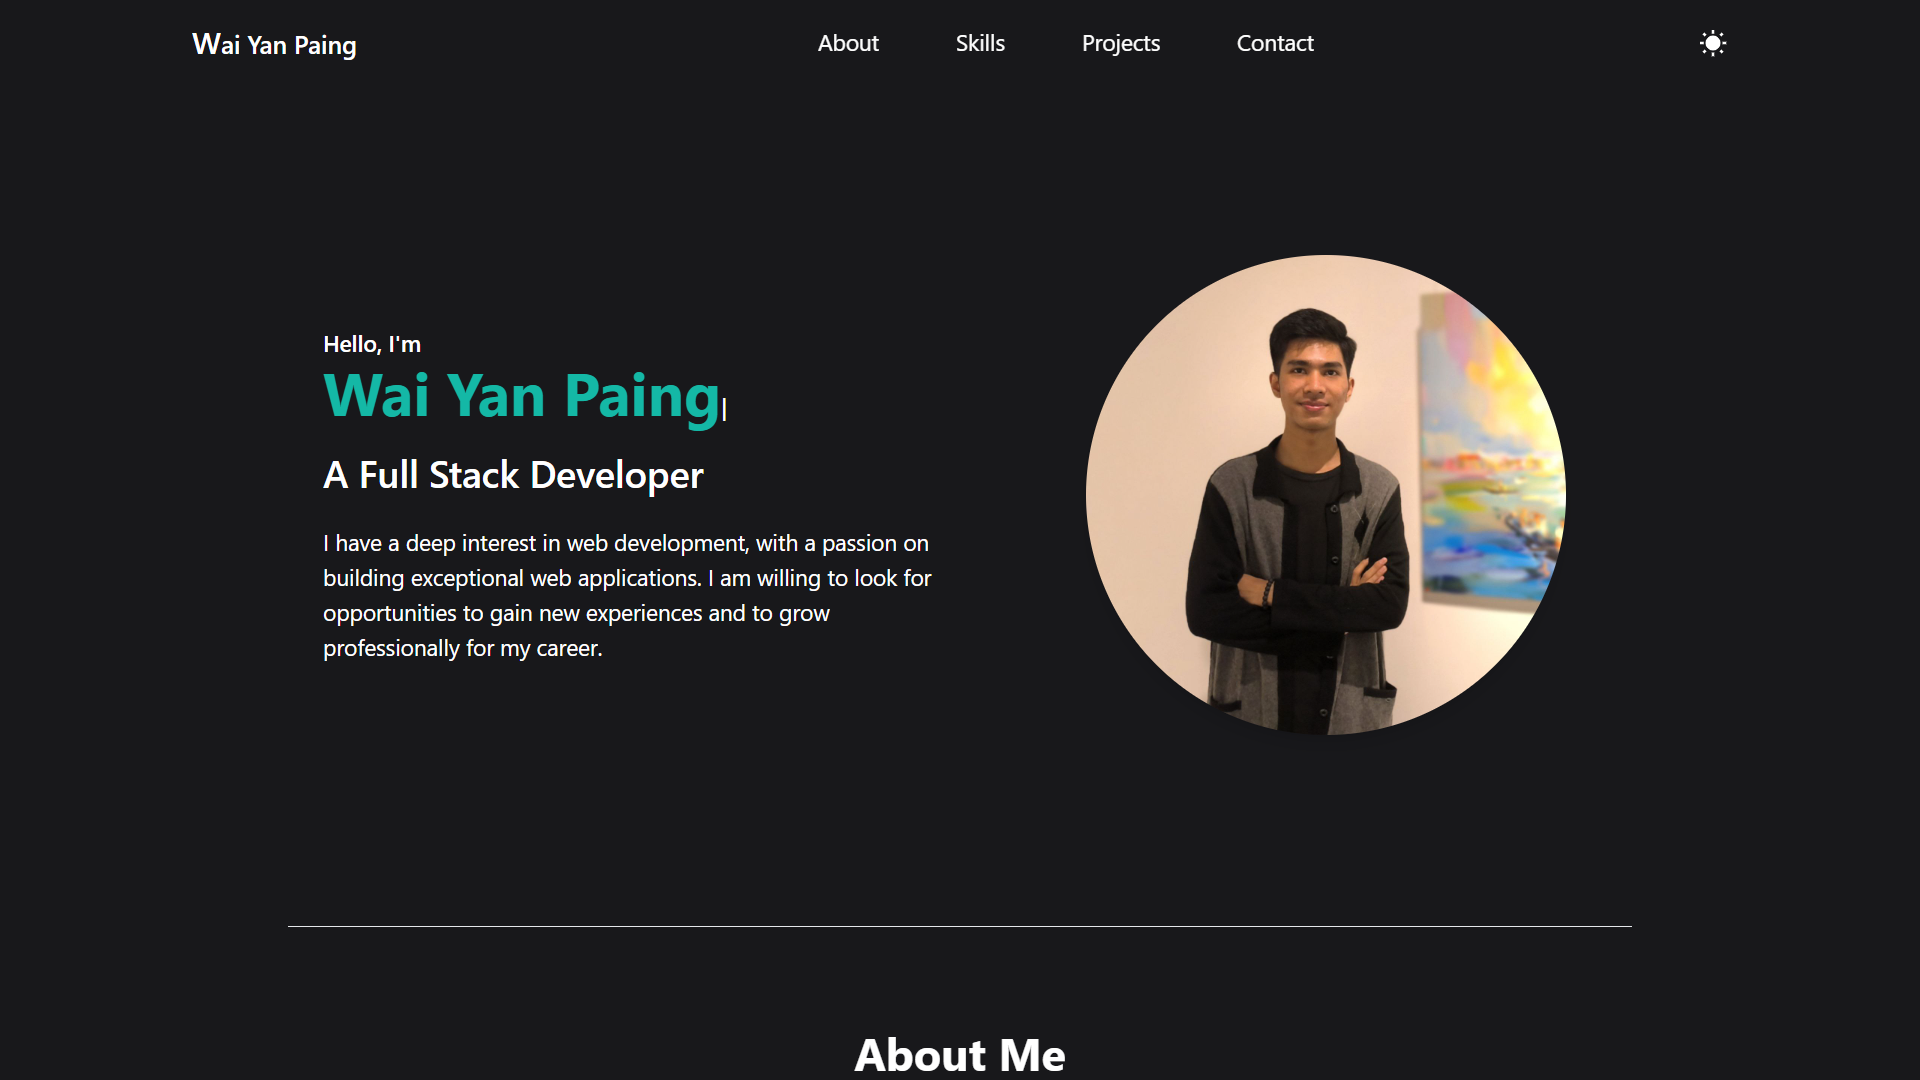
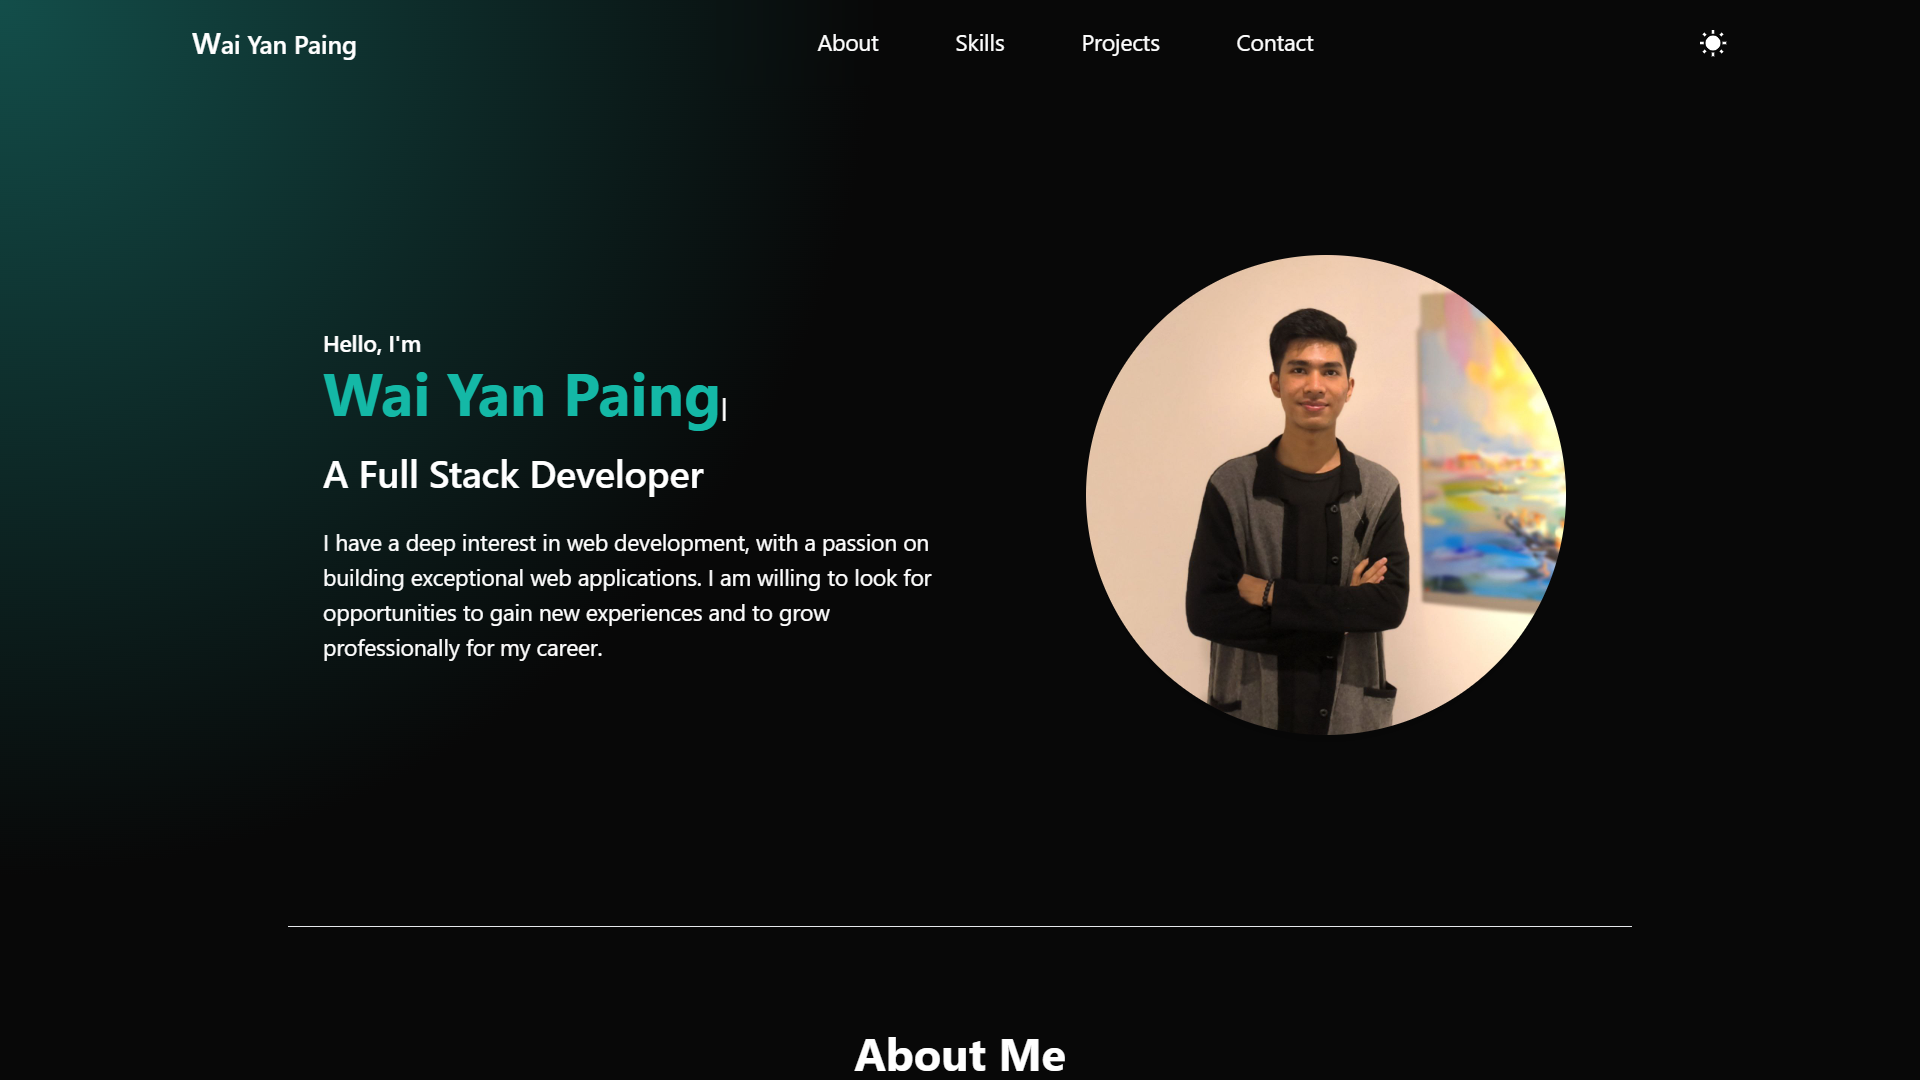
fix design

diff --git a/index.html b/index.html
@@ -3,7 +3,7 @@
 
 <head>
   <meta charset="UTF-8" />
-  <link rel="icon" type="image/svg+xml" href="/vite.svg" />
+  <link rel="icon" type="image/svg" href="./public/images/icon.svg" />
   <meta name="viewport" content="width=device-width, initial-scale=1.0" />
   <title>Wai Yan Paing - Full Stack Developer</title>
   <script src="https://unpkg.com/ionicons@4.5.10-0/dist/ionicons.js"></script>
@@ -15,7 +15,9 @@
   <script type="module" src="/src/main.js"></script>
 </head>
 
-<body class="bg-zinc-900 min-h-[100vh] text-white text-lg font-[Libre Franklin]">
+<body class="min-h-[100vh] text-white text-lg font-[Libre Franklin]">
+  <div class="bg-gradient" id="background">
+  </div>
   <nav class="flex justify-between items-center w-[80vw] mx-auto py-4 md:py-0">
     <div>
       <a href="/" class="text-xl font-semibold">
@@ -24,7 +26,7 @@
     </div>
     <div class="flex">
       <div id="menu"
-        class="md:static absolute md:min-h-full min-h-[100vh] right-0 top-[-100%] bg-zinc-800 md:bg-transparent w-2/5 md:w-auto flex p-5 z-10 transition-transform">
+        class="md:static absolute md:min-h-full min-h-[100vh] right-0 top-[-100%] bg-glass md:bg-transparent w-1/2 md:w-auto flex p-5 z-10 transition-transform">
         <ul class="flex md:flex-row flex-col md:items-center gap-[4vw]">
           <li>
             <ion-icon onclick="onToggleMenu(this)" name="close" class="text-3xl cursor-pointer md:hidden"></ion-icon>
@@ -162,7 +164,7 @@
             </li>
             <li>
               <h3>Django</h3>
-              <span class="bar headline"><span class="animate-django w-[20%] duration-1000"></span></span>
+              <span class="bar headline"><span class="animate-tailwind w-[30%] duration-1000"></span></span>
             </li>
           </ul>
         </div>
@@ -227,7 +229,7 @@
 
     <hr class="hidden md:block mt-10">
 
-    <div class="flex flex-col items-center justify-center h-[30vh] md:w-[70%] mx-auto" id="contact">
+    <div class="flex flex-col items-center justify-center h-[30vh] md:w-[70%] mx-auto mt-10 md:mt-0" id="contact">
       <h4 class="text-3xl font-semibold mt-12">Contact</h4>
       <p class=" text-center my-8">Feel free to reach out. I am always open for opportunities, collaborations or
         anything. I'd love to hear from you.</p>

diff --git a/src/js/app.js b/src/js/app.js
@@ -17,13 +17,16 @@ window.addEventListener('resize', resetMenuOnResize);
 const body = document.body;
 const menu = document.getElementById('menu');
 const toggleButton = document.getElementById('themeToggle');
+const background = document.getElementById('background');
 
 toggleButton.addEventListener('click', () => {
-    if (body.classList.contains('bg-zinc-900')) {
+    if (background.classList.contains('bg-gradient')) {
         // Switch to Light Mode
-        body.classList.remove('bg-zinc-900', 'text-white');
-        menu.classList.remove('bg-zinc-800')
-        body.classList.add('bg-[#f4f4f4]', 'text-black');
+        background.classList.remove('bg-gradient');
+        body.classList.remove('text-white');
+        menu.classList.remove('bg-glass')
+        background.classList.add('bg-[#f4f4f4]');
+        body
         menu.classList.add('bg-[#ECECEC]');
         toggleButton.classList.remove('text-white');
         toggleButton.classList.add('text-black');
@@ -31,10 +34,12 @@ toggleButton.addEventListener('click', () => {
 
     } else {
         // Switch to Dark Mode
-        body.classList.remove('bg-[#f4f4f4]', 'text-black');
+        background.classList.remove('bg-[#f4f4f4]');
+        body.classList
         menu.classList.remove('bg-[#ECECEC]')
-        body.classList.add('bg-zinc-900', 'text-white');
-        menu.classList.add('bg-zinc-800');
+        background.classList.add('bg-gradient');
+        body.classList.add('text-white');
+        menu.classList.add('bg-glass');
         toggleButton.classList.remove('text-black');
         toggleButton.classList.add('text-white');
         toggleButton.setAttribute('name', 'sunny');

diff --git a/src/style.css b/src/style.css
@@ -7,6 +7,24 @@
 *{
     list-style: none;
 }
+.bg-gradient{
+    background: radial-gradient(ellipse 700px 700px at top left, #134e4a, #080808);
+    position: fixed; /* Key to making it fixed */
+    top: 0;
+    left: 0;
+    width: 100%;
+    min-height: 100%;
+    z-index: -1;
+}
+.bg-glass{
+    background-color: rgba(0, 0, 0, 0.7); /* Semi-transparent white background */
+    backdrop-filter: blur(10px); /* Adjust blur radius as needed */
+    -webkit-backdrop-filter: blur(10px); /* For Safari support */
+}
+.body{
+    z-index: 0;
+    position: relative;
+}
 .bar{
     display: block;
     height: 20px;
@@ -26,3 +44,8 @@
     background: linear-gradient(135deg, rgba(0, 128, 128, 1) 0%, rgba(0, 191, 255, 1) 100%);
 }
 
+@media (max-width: 768px){
+    .bg-gradient{
+        background: radial-gradient(ellipse 400px 400px at top left, #134e4a, black);
+    }
+}
